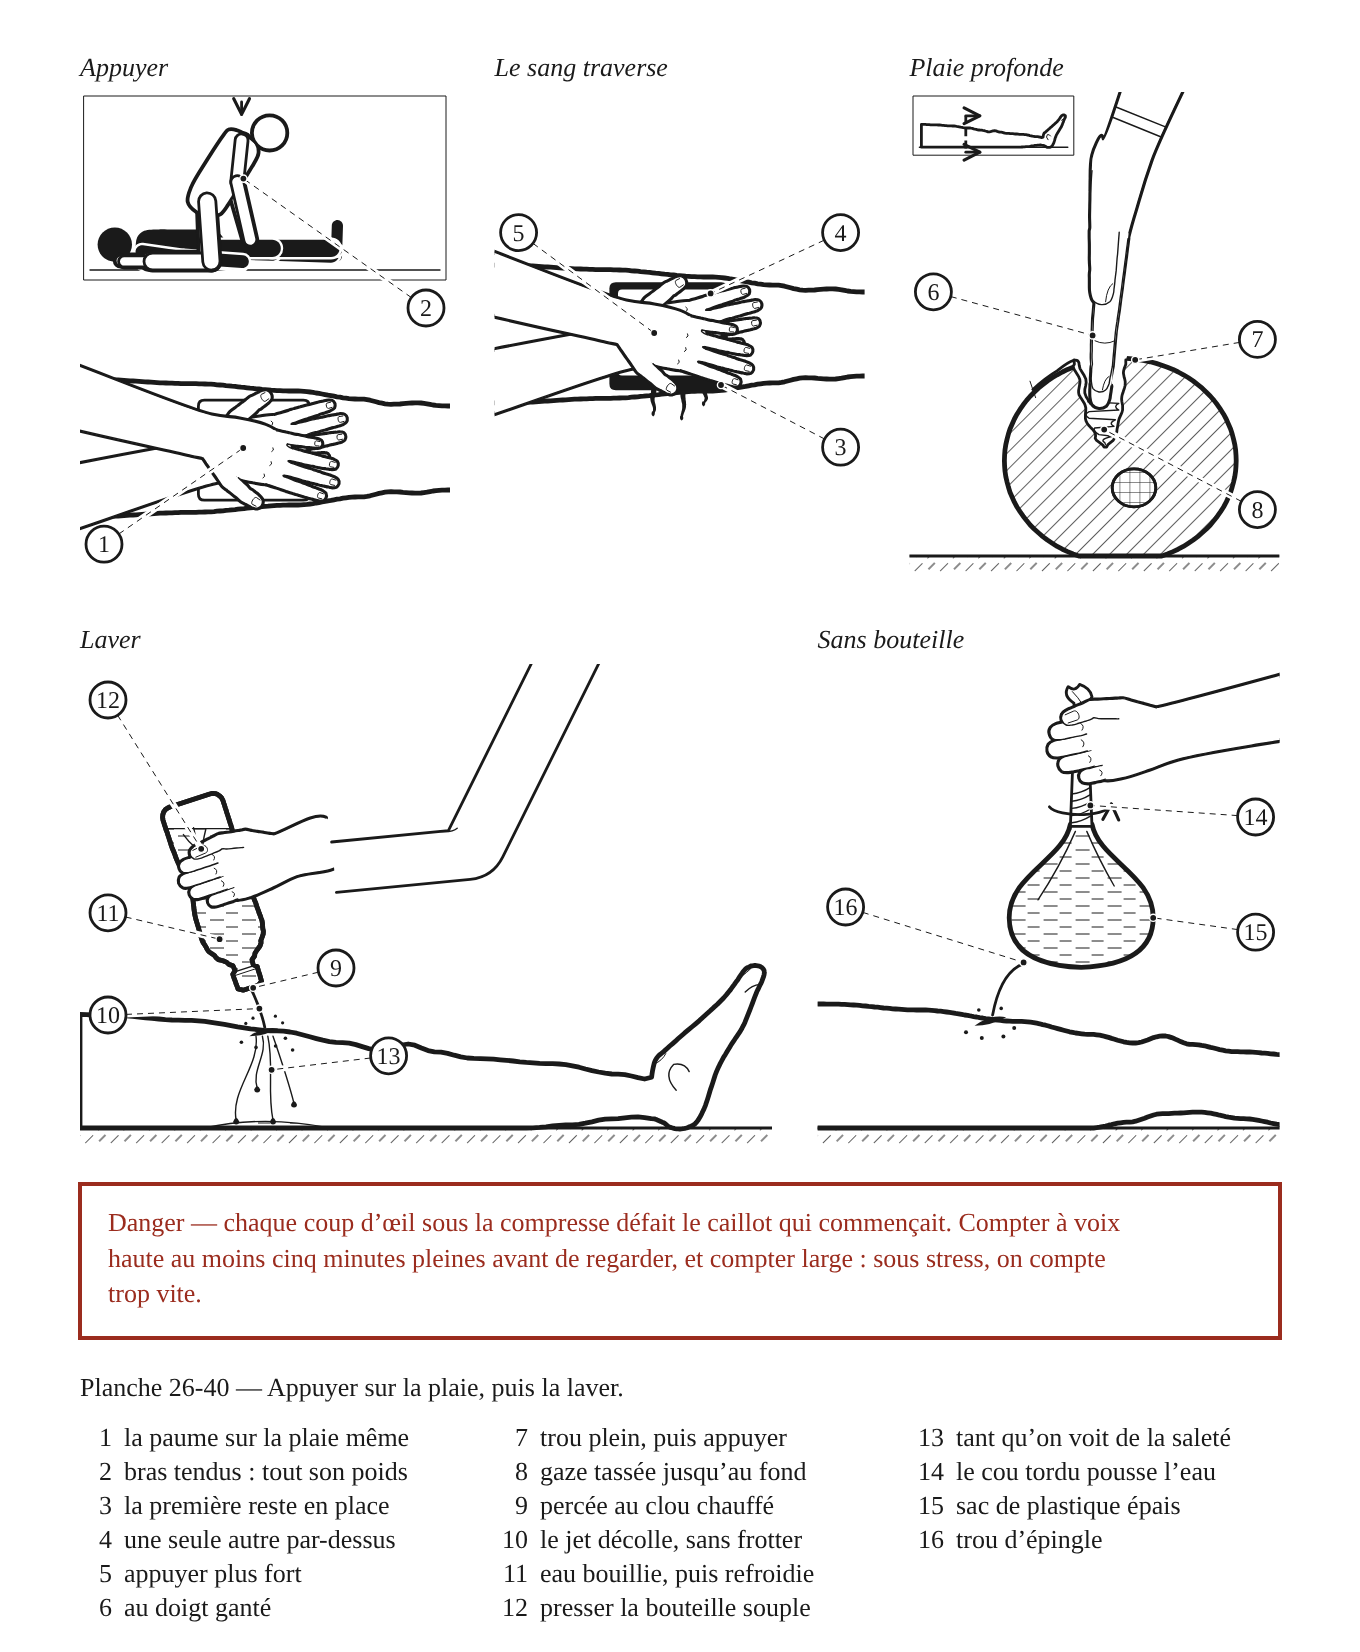
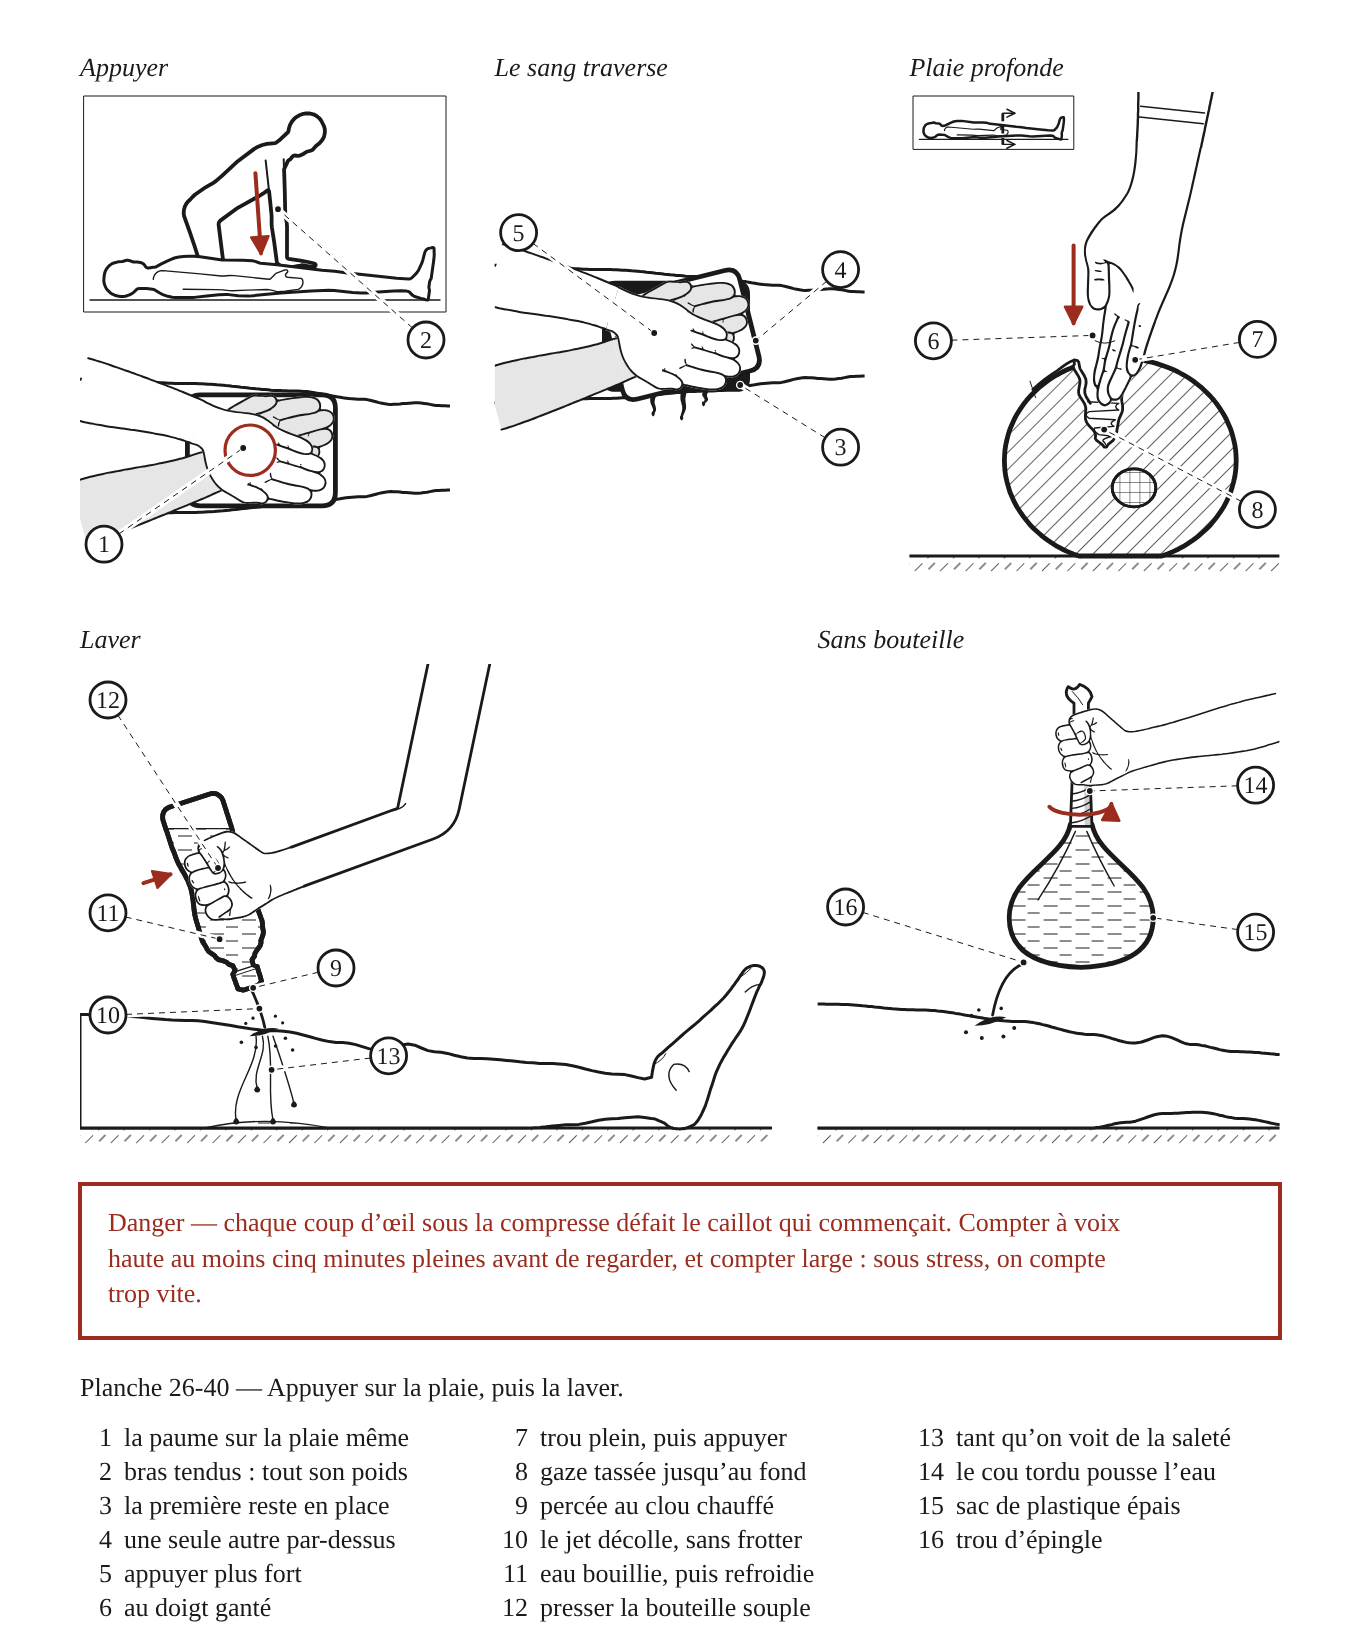
Corps simples dans les planches : pilote 26-40
Claude-Session: https://claude.ai/code/session_014xDY5FLxFXDJt3nYAYznSZ

diff --git a/images/planches-src/26-40.js b/images/planches-src/26-40.js
@@ -12,6 +12,13 @@
 // (appui vu du dos) croisées sur la compresse, et la vignette pictogramme donne la posture à genoux,
 // bras tendus ; le poing fait à la main de la plaie profonde devient la main de la bibliothèque
 // (doigts serrés, tendus dans la plaie) ; le pied, un moignon, est redessiné (talon, plante, orteils).
+// Lot 3, corps simples et charte (13 octobre) : les deux vignettes passent par h.formes.corps
+// (genoux-appuie + couche-dos ; couche-dos en petit pour repérer la coupe). L'aidant est à genoux de
+// l'autre côté du blessé : devant lui, ses tibias barraient la tête et le dos du blessé. Deux poids :
+// les compresses, la bouteille et le sac à 2,4, les membres à 1,5. Gris loin : la main du dessous. Gris
+// ombre : la face droite du cou tordu. Rouge : la poussée le long des bras tendus, la paume sur la
+// plaie, les doigts qui tassent la gaze, le poing qui serre la bouteille, le cou qu'on tord. La
+// seconde compresse est posée de travers sur la première : droites, les mains les cachaient toutes deux.
 module.exports = (h) => {
   const F = h.formes;
   const BL = h.a.blanc.split(' ')[0];
@@ -29,6 +36,11 @@ module.exports = (h) => {
     }
     return P[P.length - 1][1];
   };
+  // La charte (13 octobre) : le corps garde le poids des corps simples (1,5) ; l'objet du geste
+  // (la compresse, la bouteille, le sac) porte le contour à 2,4. La main du dessous, plus loin de
+  // l'œil, prend le gris loin comme le membre loin des corps simples.
+  const CORPS = h.a.arete.replace('stroke-width="1.4"', 'stroke-width="1.5"');
+  const loin = svg => String(svg).replace(/<path fill="#FFFFFF"/g, '<path fill="#E6E6E6"');
   const sol = (z, yg) => [h.rect(0, yg, z.l, 8, h.a.hachure('terre', 'aucun')), h.ligne(0, yg, z.l, yg, h.a.arete)].join('\n');
   // ce qui dépasse de la vue (un bras qui sort du cadre) est coupé net au bord
   const decoupe = (id, z, contenu) => `<clipPath id="rogne-26-40-${id}"><rect x="0" y="0" width="${f(z.l)}" height="${f(z.h)}" fill="none"/></clipPath>\n<g clip-path="url(#rogne-26-40-${id})">\n${contenu}\n</g>`;
@@ -87,7 +99,7 @@ module.exports = (h) => {
     const top = x => Y(lisse(HAUT, x / s + u0));
     const dessin = [
       sol(z, yg),
-      h.chemin(profilJambe(X, Y, u0), plein(h.a.contour), true),
+      h.chemin(profilJambe(X, Y, u0), plein(CORPS), true),
       traitsPied(X, Y, s, false),
     ].join('\n');
     return { X, Y, top, dessin };
@@ -101,14 +113,21 @@ module.exports = (h) => {
     for (let x = -2; x < z.l + 3; x += 1.5) { haut.push([x, cy - hw(x)]); bas.push([x, cy + hw(x)]); }
     const dessin = [
       h.chemin([...haut, ...bas.slice().reverse()], h.a.blanc, true),
-      h.chemin(haut, h.a.contour), h.chemin(bas, h.a.contour),
+      h.chemin(haut, CORPS), h.chemin(bas, CORPS),
       // le genou : la cuisse s'y rétrécit, puis la jambe repart
     ].join('\n');
     return { X, U, hw, cy, dessin };
   };
   // Une compresse vue de dessus : un carré de gaze pliée, coins à peine arrondis, le pli marqué.
+  // La compresse sur la plaie (une gaze pliée, ou un linge plié) : assez grande pour dépasser au
+  // bout des doigts, sinon les mains la cachent. La seconde, posée par-dessus, un peu plus petite.
+  // (dx, dy, l, ht) en cm depuis la plaie.
+  // La seconde est tournée d'un quart de tour de travers sur la première : leurs coins sortent de
+  // sous les mains, et l'on voit qu'il y en a deux (posées droites l'une sur l'autre, les mains les
+  // cachaient toutes les deux).
+  const PREMIERE = [1.5, 0, 20, 15], SECONDE = [2.2, -0.2, 19, 14, -14];
   const tampon = (cx, cy, l, ht, at, pli) => {
-    const r = Math.min(l, ht) * 0.06, x0 = cx - l / 2, y0 = cy - ht / 2, x1 = cx + l / 2, y1 = cy + ht / 2;
+    const r = Math.min(l, ht) * 0.12, x0 = cx - l / 2, y0 = cy - ht / 2, x1 = cx + l / 2, y1 = cy + ht / 2;
     const d = `M${f(x0 + r)},${f(y0)} L${f(x1 - r)},${f(y0)} Q${f(x1)},${f(y0)} ${f(x1)},${f(y0 + r)} L${f(x1)},${f(y1 - r)} Q${f(x1)},${f(y1)} ${f(x1 - r)},${f(y1)} L${f(x0 + r)},${f(y1)} Q${f(x0)},${f(y1)} ${f(x0)},${f(y1 - r)} L${f(x0)},${f(y0 + r)} Q${f(x0)},${f(y0)} ${f(x0 + r)},${f(y0)} Z`;
     const out = [h.path(d, at)];
     if (pli) out.push(h.ligne(x0 + 3, y0 + ht * 0.36, x1 - 3, y0 + ht * 0.36, h.a.fin));
@@ -136,7 +155,7 @@ module.exports = (h) => {
     const haut = F.modele('s03-dessus-l1', { x: O2[0], y: O2[1], ancre: [72, 112], angle: d2 - 90, echelle: SD,
       masquer: [[0, 0, 125, 14]], bras: { ...BRAS, vers: dir(196), bord: z } });
     const ici = (O, u, a, b) => [O[0] + (u[0] * a - u[1] * b) * em, O[1] + (u[1] * a + u[0] * b) * em];
-    return { bas, haut, O1, O2, u1, u2, em, ici, svg: [bas, haut].join('\n') };
+    return { bas, haut, O1, O2, u1, u2, em, ici, svg: [loin(bas), haut].join('\n') };
   };
   // Les y où une verticale x coupe les contours d'un SVG fait de polylignes (les corps simples) :
   // le dessus de la cuisse du blessé, là où les mains se posent.
@@ -200,8 +219,10 @@ module.exports = (h) => {
     const g = geoA(z), s = g.s, out = [];
     const v = posture(g.vg.x, g.vg.y, g.vg.l, g.vg.h);
     out.push(v.svg, g.C.dessin);
-    out.push(tampon(g.P[0] + 0.5 * s, g.P[1], 15 * s, 13.5 * s, plein(h.a.arete), true));
+    out.push(tampon(g.P[0] + PREMIERE[0] * s, g.P[1] + PREMIERE[1] * s, PREMIERE[2] * s, PREMIERE[3] * s, plein(h.a.contour), true));
     out.push(g.M.svg);
+    // le point à contrôler : la paume du dessous sur la plaie même
+    out.push(h.controle(g.P[0], g.P[1], 3.4 * s));
     return decoupe('a', z, out.join('\n'));
   };
 
@@ -232,11 +253,12 @@ module.exports = (h) => {
     const [px, py] = g.P;
     // la première, trempée : noire ; le sang passé coule sur la peau vers le côté et tombe au sol
     for (const [dx, amp, ph, k] of [[-1.5, 0.6, 0.4, 2.2], [2.6, 0.5, 2.1, 3.2], [5.6, 0.6, 1.3, 1.4]]) {
-      const x0 = px + dx * s, y0 = py + 6.4 * s, y1 = py + C.hw(x0) + k * s;
+      const x0 = px + dx * s, y0 = py + (PREMIERE[1] + PREMIERE[3] / 2 - 0.4) * s, y1 = py + C.hw(x0) + k * s;
       out.push(filet(x0, y0, y1, amp, ph, 1.6, 0.6, 0));
     }
-    out.push(tampon(px + 0.5 * s, py, 16 * s, 14.6 * s, h.a.plein, false));
-    out.push(tampon(px + 0.2 * s, py - 0.5 * s, 13.4 * s, 12 * s, plein(h.a.arete), true));
+    const T1 = PREMIERE, T2 = SECONDE;
+    out.push(tampon(px + T1[0] * s, py + T1[1] * s, T1[2] * s, T1[3] * s, h.a.plein, false));
+    out.push(`<g transform="rotate(${T2[4]} ${f(px + T2[0] * s)} ${f(py + T2[1] * s)})">`, tampon(px + T2[0] * s, py + T2[1] * s, T2[2] * s, T2[3] * s, plein(h.a.contour), true), '</g>');
     out.push(g.M.svg);
     return decoupe('b', z, out.join('\n'));
   };
@@ -253,8 +275,9 @@ module.exports = (h) => {
     const xf = ax(0.3) + 0.25 * s, K = [xf, yM - 3 * s];
     // la vignette : la jambe entière, en petit, avec le trait de coupe sur la cuisse
     const vg = { x: 2, y: 2, l: Math.min(z.l * 0.47, xf - 1.4 * s - 8) };
-    vg.sv = (vg.l - 8) / 110.5; vg.h = 27 * vg.sv + 12; vg.yg = vg.y + vg.h - 4;
-    vg.X = u => vg.x + 4 + (u + 10) * vg.sv; vg.Y = v => vg.yg - v * vg.sv;
+    // le blessé entier en petit (corps simple couche-dos, trait 1,25 : à cette taille le 1,5 empâte ;
+    // ses traits intérieurs restent à 0,5), le trait de coupe à mi-cuisse
+    vg.e = (vg.l - 9) / 1820; vg.h = 300 * vg.e + 15; vg.yg = vg.y + vg.h - 5;
     // la main gantée, doigts serrés et tendus, le poignet droit : la paume de profil de la
     // bibliothèque, tournée les doigts en bas ; le bout de l'index et du majeur pousse la gaze
     const em = s / 10, yTip = ay(0.5);
@@ -265,21 +288,28 @@ module.exports = (h) => {
       masquer: [[228, 0, 245, 125]],
       bras: { a: [228, 57.6], a0: [210, 58.4], b: [228, 110.8], b0: [210, 108.8], bord: z } });
     main.poignet = main.P([228, 84.2]); main.bras = main.P([246, 84.2]); main.demi = 53.2 / 2 * 190 * em / 214;
-    return { s, em, yg, cx, cy, rx, ry, ytop, xm, yM, ax, ay, w, xf, K: [xf, yM - 3 * s], main, femur: [cx + 1 * s, cy + 2 * s], vg };
+    const geste = [[xf - 2.3 * s, yM - 8.4 * s], [xf - 2.3 * s, yM - 2.7 * s]];
+    return { s, em, yg, cx, cy, rx, ry, ytop, xm, yM, ax, ay, w, xf, K: [xf, yM - 3 * s], main, femur: [cx + 1 * s, cy + 2 * s], vg, geste };
+  };
+  const petitBlesse = vg => {
+    const cle = ['pb', vg.x, vg.y, vg.l].join(',');
+    if (memo[cle]) return memo[cle];
+    const c = F.corps({ x: 0, y: vg.yg, pose: 'couche-dos', echelle: vg.e, trait: 1.25 }), dx = vg.x + (vg.l - (c.boite.x1 - c.boite.x0)) / 2 - c.boite.x0;
+    const A = c.articulations, xc0 = A.hancheP[0] + 0.45 * (A.genouP[0] - A.hancheP[0]);
+    return (memo[cle] = { svg: deplace(c, dx), xc: xc0 + dx, yh: Math.min(...coupesX(c, xc0)) });
   };
   const dessinC = z => {
     const g = geoC(z), s = g.s, out = [sol(z, g.yg)];
     // la vignette
     const vg = g.vg;
     out.push(h.rect(vg.x, vg.y, vg.l, vg.h, h.a.fin));
-    out.push(h.ligne(vg.x + 3, vg.yg, vg.x + vg.l - 3, vg.yg, h.a.detail));
-    out.push(h.chemin(profilJambe(vg.X, vg.Y, -10), plein(h.a.arete), true));
-    out.push(traitsPied(vg.X, vg.Y, vg.sv, true));
-    const xc = vg.X(24), yh = vg.Y(lisse(HAUT, 24));
+    const pb = petitBlesse(vg);
+    out.push(pb.svg, h.ligne(vg.x + 3, vg.yg, vg.x + vg.l - 3, vg.yg, h.a.detail));
+    const xc = pb.xc, yh = pb.yh;
     out.push(h.path(`M${f(xc - 1.3)},${f(yh + 0.6)} Q${f(xc)},${f(yh - 0.9)} ${f(xc + 1.3)},${f(yh + 0.6)} Z`, h.a.plein));   // la plaie
     out.push(h.path(`M${f(xc)},${f(yh - 6)} L${f(xc)},${f(vg.yg + 2.5)}`, `fill="none" stroke="#1A1A1A" stroke-width="1.4" stroke-dasharray="4 2.2"`));
-    out.push(h.fleche(`M${f(xc)},${f(yh - 6)} L${f(xc + 7)},${f(yh - 6)}`, h.a.arete));
-    out.push(h.fleche(`M${f(xc)},${f(vg.yg + 2.5)} L${f(xc + 7)},${f(vg.yg + 2.5)}`, h.a.arete));
+    out.push(h.fleche(`M${f(xc)},${f(yh - 6)} L${f(xc + 6)},${f(yh - 6)}`, h.a.detail));
+    out.push(h.fleche(`M${f(xc)},${f(vg.yg + 2.5)} L${f(xc + 6)},${f(vg.yg + 2.5)}`, h.a.detail));
     // la coupe : la chair tramée, le fémur en hachure croisée
     const ovale = (a, b) => { const p = []; for (let i = 0; i <= 120; i++) { const t = i / 120 * 2 * Math.PI; p.push([g.cx + a * Math.cos(t), Math.min(g.cy + b * Math.sin(t), g.yg)]); } return p; };
     out.push(h.chemin(ovale(g.rx, g.ry), h.a.blanc, true));
@@ -323,6 +353,8 @@ module.exports = (h) => {
     }
     const xf = g.xf;
     out.push(h.path(`M${f(xf - r * 0.8)},${f(g.yM - 1.4 * s)} Q${f(xf)},${f(g.yM - 1.05 * s)} ${f(xf + r * 0.8)},${f(g.yM - 1.4 * s)}`, h.a.fin));
+    // le geste : les doigts poussent la gaze jusqu'au fond
+    out.push(h.geste(`M${pt(g.geste[0])} L${pt(g.geste[1])}`));
     return decoupe('c', z, out.join('\n'));
   };
 
@@ -411,6 +443,8 @@ module.exports = (h) => {
     out.push(h.cercle(...W(0, 0), 0.35 * s, h.a.plein));
     // la main qui serre : les doigts repliés autour du corps, le pouce qui creuse la paroi
     out.push(brasCoude(g.main, g.R, g.eH, -58), String(g.main));
+    // le geste : serrer le poing sur la bouteille souple
+    out.push(h.geste(`M${pt(W(20.2, -10.6))} L${pt(W(20.2, -6.3))}`));
     // (le poing du modèle ne creuse pas la paroi : plus de plis de plastique sous le pouce)
     // le jet et ses éclaboussures
     out.push(h.path(`M${pt(g.jet.a)} Q${pt(g.jet.c)} ${pt(g.jet.b)}`, h.a.arete));
@@ -435,7 +469,7 @@ module.exports = (h) => {
     const hp = [], bp = [];
     for (let x = 0; x < z.l; x += 1.5) { hp.push([x, g.top(x)]); bp.push([x, g.Y(lisse(BASC, -2 + x / s))]); }
     hp.push([z.l, g.top(z.l)]); bp.push([z.l, g.Y(lisse(BASC, -2 + z.l / s))]);
-    out.push(h.chemin([...hp, ...bp.slice().reverse()], h.a.blanc, true), h.chemin(hp, h.a.contour), h.chemin(bp, h.a.contour));
+    out.push(h.chemin([...hp, ...bp.slice().reverse()], h.a.blanc, true), h.chemin(hp, CORPS), h.chemin(bp, CORPS));
     const x = g.xw, y = g.yw;
     out.push(h.path(`M${f(x - 2.2 * s)},${f(y + 0.9 * s)} Q${f(x)},${f(y - 0.7 * s)} ${f(x + 2.2 * s)},${f(y - 0.3 * s)} Q${f(x)},${f(y + 0.9 * s)} ${f(x - 2.2 * s)},${f(y + 0.9 * s)} Z`, h.a.plein));
     for (const [dx, dy] of [[-3.4, 1.8], [3.3, 1.2], [-1.2, 2.6], [1.8, 2.4]]) out.push(h.cercle(x + dx * s, y + dy * s, 0.28 * s, h.a.plein));
@@ -449,7 +483,9 @@ module.exports = (h) => {
     out.push(h.path(`M${f(cx + 0.8 * s)},${f(yn + 1 * s)} Q${f(cx + 2.5 * s)},${f(yn + 5 * s)} ${f(cx + 4.6 * s)},${f(yn + 8.6 * s)}`, h.a.detail));
     // le cou tordu, du sac jusqu'au poing, et la touffe de plastique qui dépasse au-dessus
     const yH = g.yF - 6.8 * s;
-    out.push(h.path(`M${f(cx - 1.5 * s)},${f(yn + 0.3 * s)} L${f(cx - 1.1 * s)},${f(g.yF)} L${f(cx + 1.1 * s)},${f(g.yF)} L${f(cx + 1.5 * s)},${f(yn + 0.3 * s)} Z`, plein(h.a.arete)));
+    const cou = `M${f(cx - 1.5 * s)},${f(yn + 0.3 * s)} L${f(cx - 1.1 * s)},${f(g.yF)} L${f(cx + 1.1 * s)},${f(g.yF)} L${f(cx + 1.5 * s)},${f(yn + 0.3 * s)} Z`;
+    // la face à l'ombre du cou tordu (lumière d'en haut à gauche) : l'aplat d'abord, le trait par-dessus
+    out.push(h.path(cou, h.a.blanc), h.path(`M${f(cx + 0.5 * s)},${f(yn + 0.3 * s)} L${f(cx + 0.35 * s)},${f(g.yF)} L${f(cx + 1.1 * s)},${f(g.yF)} L${f(cx + 1.5 * s)},${f(yn + 0.3 * s)} Z`, h.a.ombre), h.path(cou, h.a.arete));
     for (let i = 0; i < 5; i++) { const yy = yn - 0.2 * s - i * 1 * s; out.push(h.path(`M${f(cx - 1.3 * s)},${f(yy)} Q${f(cx)},${f(yy - 0.1 * s)} ${f(cx + 1.3 * s)},${f(yy - 0.9 * s)}`, h.a.detail)); }
     out.push(h.path(`M${f(cx - 1 * s)},${f(g.yF)} L${f(cx - 1 * s)},${f(yH)} Q${f(cx - 2.6 * s)},${f(yH - 1 * s)} ${f(cx - 1.8 * s)},${f(yH - 2.3 * s)} Q${f(cx - 0.8 * s)},${f(yH - 1.5 * s)} ${f(cx - 0.2 * s)},${f(yH - 2.6 * s)} Q${f(cx + 1.3 * s)},${f(yH - 2.1 * s)} ${f(cx + 1.5 * s)},${f(yH - 0.9 * s)} L${f(cx + 1 * s)},${f(yH)} L${f(cx + 1 * s)},${f(g.yF)} Z`, plein(h.a.arete)));
     out.push(h.path(`M${f(cx - 1.2 * s)},${f(yH - 1.6 * s)} Q${f(cx - 0.4 * s)},${f(yH - 0.8 * s)} ${f(cx + 0.2 * s)},${f(yH + 0.2 * s)}`, h.a.fin));
@@ -460,7 +496,7 @@ module.exports = (h) => {
       masquer: [[0, 150, 140, 175]], bras: { a: [21.8, 150], a0: [20.8, 135], b: [76.3, 150], b0: [76.2, 135], bord: z } }));
     // tordre : la flèche passe devant le cou
     const ya = (yn + yt) / 2 + 0.3 * s;
-    out.push(h.fleche(`M${f(cx - 4.4 * s)},${f(ya - 0.5 * s)} A${f(4.4 * s)} ${f(1.5 * s)} 0 0 0 ${f(cx + 4.2 * s)},${f(ya - 0.9 * s)}`, h.a.arete));
+    out.push(h.geste(`M${f(cx - 4.4 * s)},${f(ya - 0.5 * s)} A${f(4.4 * s)} ${f(1.5 * s)} 0 0 0 ${f(cx + 4.2 * s)},${f(ya - 0.9 * s)}`));
     // le trou d'épingle, sous l'eau, et le jet jusqu'à la plaie
     const t = g.trou;
     out.push(h.cercle(t[0], t[1], 0.45 * s, h.a.plein));
@@ -472,7 +508,7 @@ module.exports = (h) => {
   return {
     ref: '26-40',
     titre: 'Appuyer sur la plaie, puis la laver',
-    desc: 'Cinq gestes. Appuyer : en vignette, celui qui appuie à genoux à côté de la personne couchée, penché au-dessus de la cuisse, les deux bras tendus droit vers le bas ; dessous, la cuisse vue de dessus, de la hanche au genou, une compresse sur la plaie et les deux mains à plat croisées l’une sur l’autre, doigts vers le genou, la paume du dessous sur la compresse. Quand le sang traverse : même vue, la première compresse trempée, noire, reste en place, une seule autre par-dessus, les mains qui appuient plus fort ; le sang passé coule sur la peau vers le côté. Une plaie profonde de cuisse en coupe, repérée sur une petite jambe entière : la chair tramée, le fémur en hachure croisée, la gaze repliée en accordéon tassée jusqu’au fond par la main gantée, doigts serrés et tendus dans la plaie, son bout libre couché sur la peau. Laver : une bouteille souple tenue bouchon en bas, serrée au poing, les doigts repliés autour du corps et le pouce qui enfonce la paroi, le jet sur la plaie, l’eau sale qui descend le flanc jusqu’au sol. Sans bouteille : un sac de plastique plein d’eau tenu au poing par le cou tordu, le pouce refermé sur l’index, le jet qui sort d’un trou d’épingle dans le coin du bas et tombe sur la plaie de la cuisse.',
+    desc: 'Cinq gestes. Appuyer : en vignette, le blessé couché sur le dos et celui qui appuie à genoux de l’autre côté de lui, à hauteur de la hanche, penché, les bras tendus droit, les épaules à l’aplomb des mains posées à plat sur la cuisse, une flèche rouge le long des bras vers le bas ; dessous, la cuisse vue de dessus, de la hanche au genou, une compresse sur la plaie et les deux mains à plat l’une sur l’autre, doigts vers le genou, la main du dessous en gris, un cercle rouge sur la paume posée sur la plaie. Quand le sang traverse : même vue, la première compresse trempée, noire, reste en place, une seule autre par-dessus, posée de travers, les mains qui appuient plus fort ; le sang passé coule sur la peau vers le côté. Une plaie profonde de cuisse en coupe, repérée sur un petit blessé couché : la chair tramée, le fémur en hachure croisée, la gaze repliée en accordéon tassée jusqu’au fond par la main gantée, doigts serrés et tendus dans la plaie, une flèche rouge vers le fond, son bout libre couché sur la peau. Laver : une bouteille souple tenue bouchon en bas, serrée au poing, une flèche rouge contre les doigts, le jet sur la plaie, l’eau sale qui descend le flanc jusqu’au sol. Sans bouteille : un sac de plastique plein d’eau tenu au poing par le cou tordu, une flèche rouge autour du cou, le jet qui sort d’un trou d’épingle dans le coin du bas et tombe sur la plaie de la cuisse.',
     format: 'pleine',
     disposition: [['appuyer', 'traverse', 'bourrer'], ['laver', 'sac']],
     largeurs: [[1, 1, 1], [3, 2]],
@@ -495,8 +531,8 @@ module.exports = (h) => {
         renvois: z => {
           const g = geoB(z), s = g.s, [px, py] = g.P;
           return [
-            { n: 3, rond: [z.l - 12, py + 15 * s], cible: [px + 7.6 * s, py + 6.6 * s], texte: 'la première reste en place' },
-            { n: 4, rond: [z.l - 12, py - 14 * s], cible: [px + 6.2 * s, py - 5.8 * s], texte: 'une seule autre par-dessus' },
+            { n: 3, rond: [z.l - 12, py + 15 * s], cible: [px + 10.2 * s, py + 6.6 * s], texte: 'la première reste en place' },
+            { n: 4, rond: [z.l - 12, py - 9 * s], cible: [px + 12.3 * s, py + 0.6 * s], texte: 'une seule autre par-dessus' },
             { n: 5, rond: [12, py - 14 * s], cible: g.M.ici(g.M.O2, g.M.u2, -45, 0), texte: 'appuyer plus fort' },
           ];
         },
@@ -507,7 +543,7 @@ module.exports = (h) => {
         renvois: z => {
           const g = geoC(z), s = g.s;
           return [
-            { n: 6, rond: [12, g.K[1] - 2 * s], cible: [g.xf - 0.9 * s, g.yM - 1.8 * s], texte: 'au doigt ganté' },
+            { n: 6, rond: [12, g.yM - 1.4 * s], cible: [g.xf - 0.9 * s, g.yM - 1.8 * s], texte: 'au doigt ganté' },
             { n: 7, rond: [z.l - 11, g.yM - 1.5 * s], cible: [g.xm + 2.6 * s, g.ytop(g.xm + 2.6 * s) + 0.3], texte: 'trou plein, puis appuyer' },
             { n: 8, rond: [z.l - 11, g.cy + 3.6 * s], cible: [g.ax(0.8), g.ay(0.8)], texte: 'gaze tassée jusqu’au fond' },
           ];
@@ -534,7 +570,7 @@ module.exports = (h) => {
         renvois: z => {
           const g = geoE(z), s = g.s;
           return [
-            { n: 14, rond: [z.l - 12, g.yn - 1 * s], cible: [g.cx + 1.3 * s, g.yn - 2.6 * s], texte: 'le cou tordu pousse l’eau' },
+            { n: 14, rond: [z.l - 12, g.yn - 5.4 * s], cible: [g.cx + 1.2 * s, g.yn - 4.6 * s], texte: 'le cou tordu pousse l’eau' },
             { n: 15, rond: [z.l - 12, g.yn + 15 * s], cible: [g.cx + g.Wd, g.yn + 13 * s], texte: 'sac de plastique épais' },
             { n: 16, rond: [14, g.yb - 8 * s], cible: g.trou, texte: 'trou d’épingle' },
           ];
